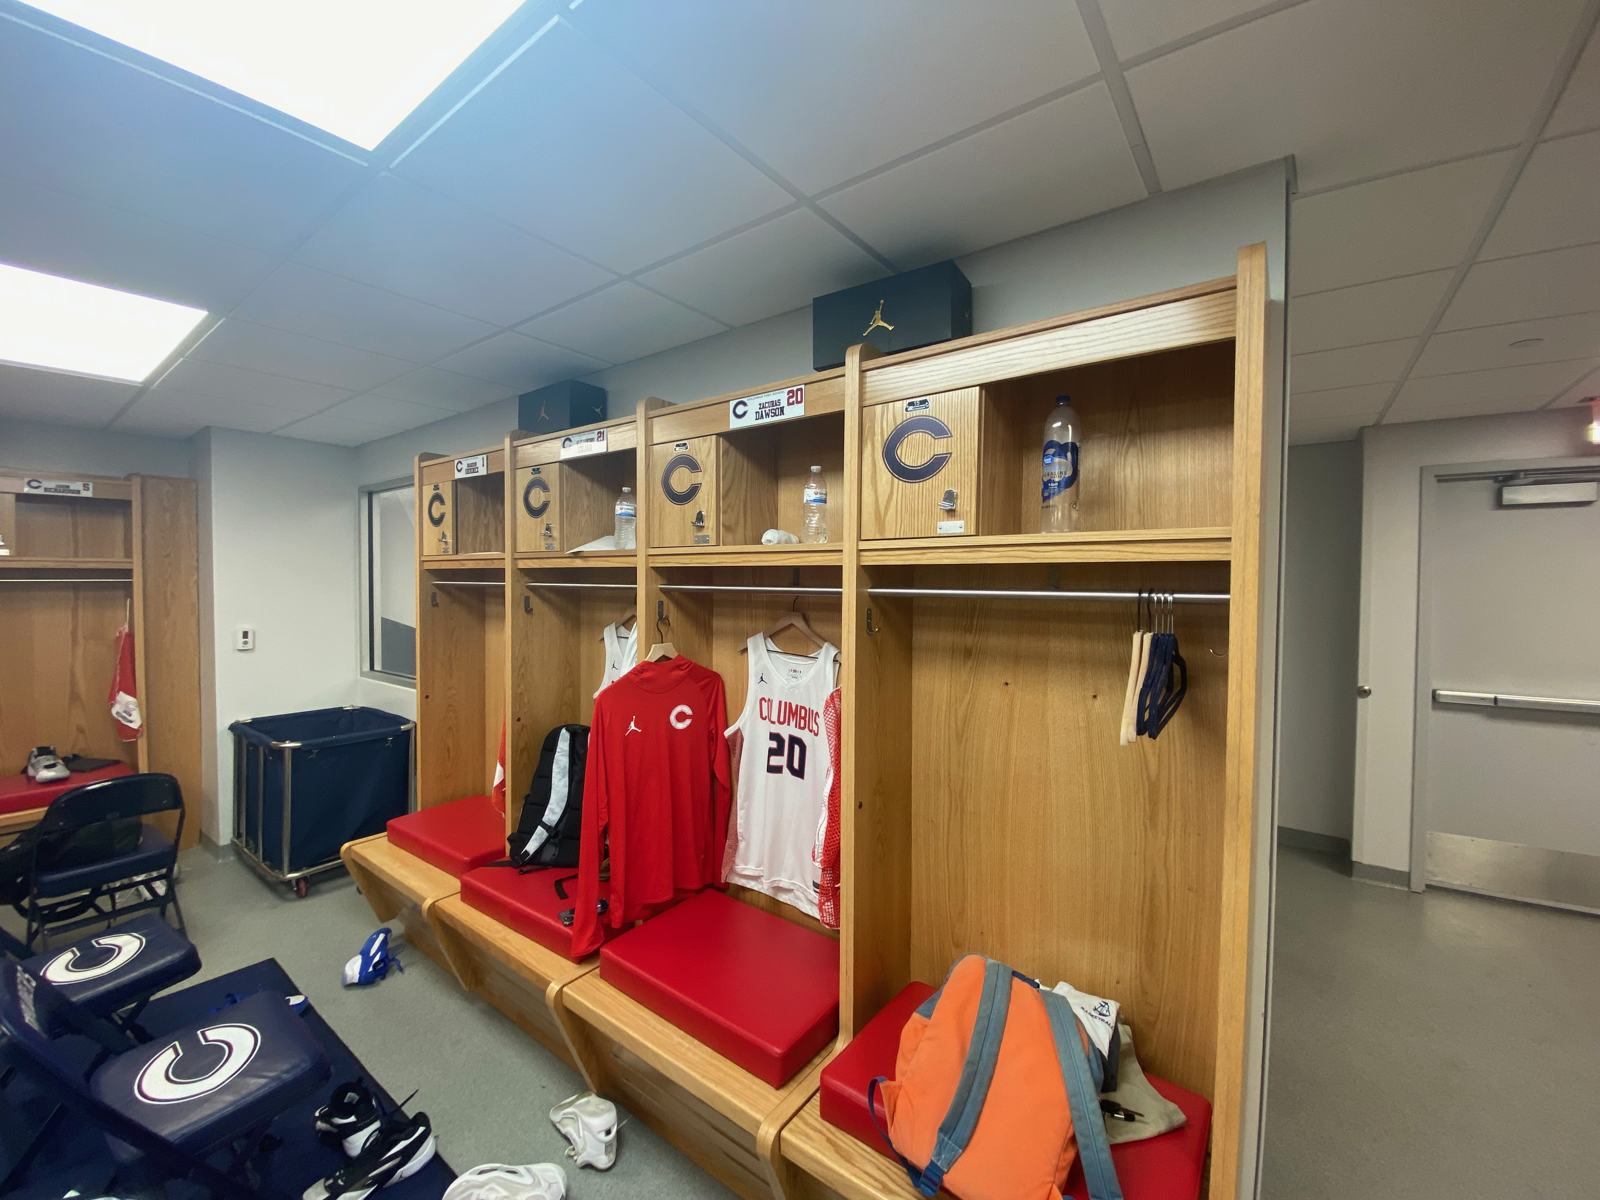
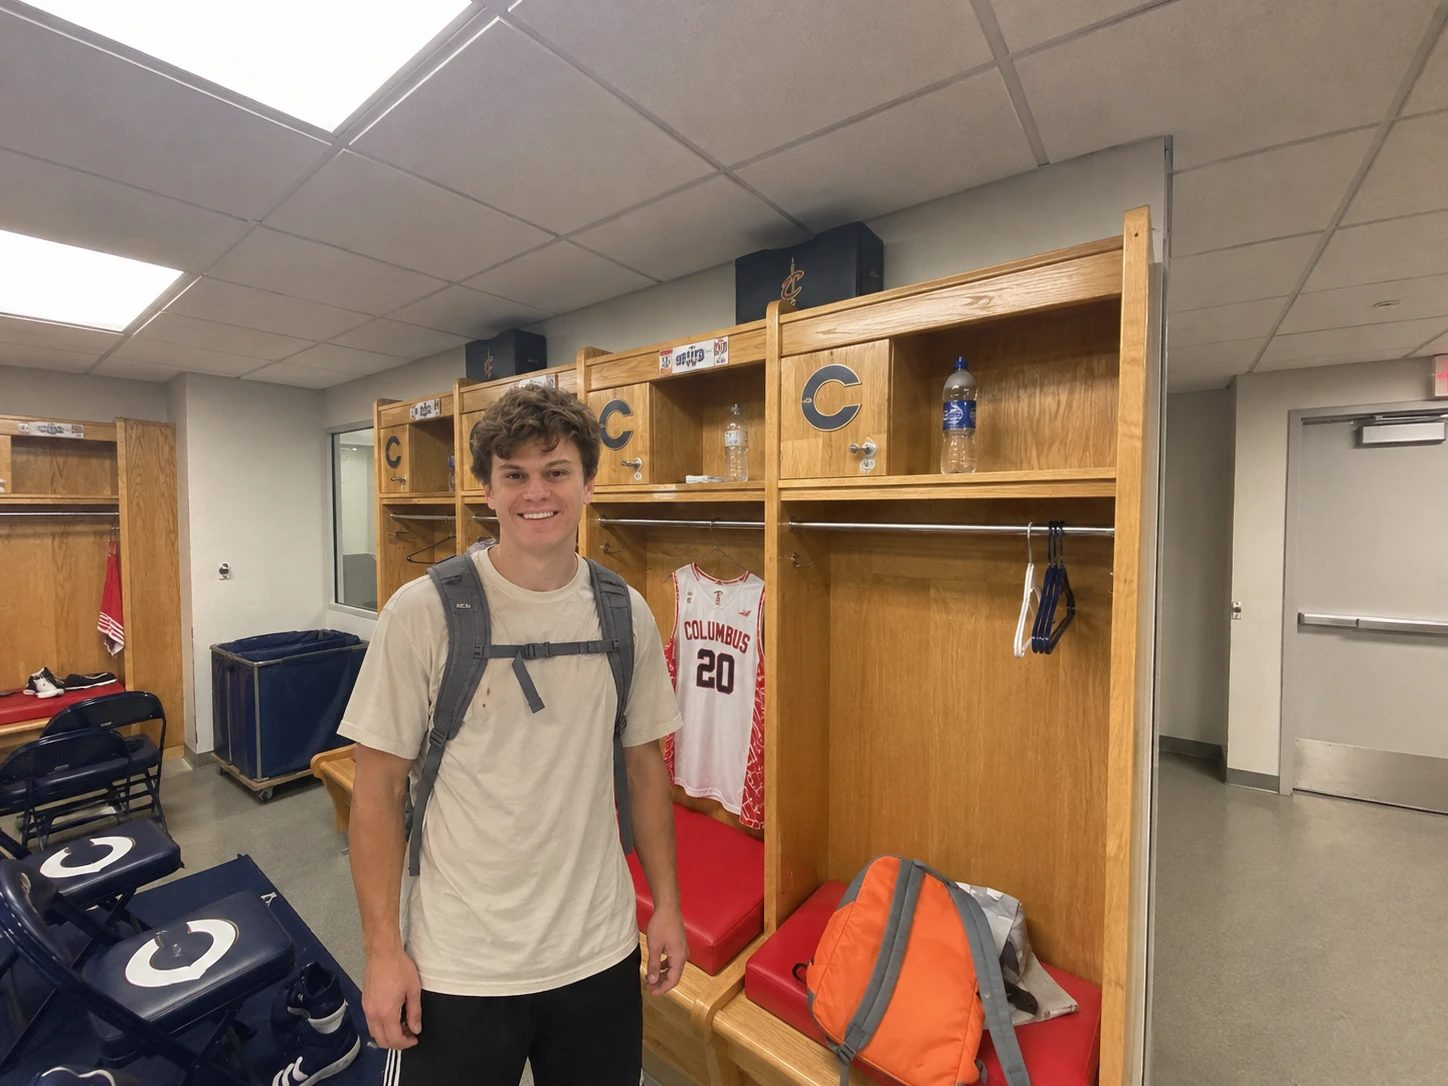
Nueva foto en el vestuario de Columbus HS

diff --git a/index.html b/index.html
@@ -611,7 +611,7 @@ footer{padding-bottom:calc(90px + env(safe-area-inset-bottom,0px))}
         <div class="stabs" role="tablist" aria-label="Etapas"><button type="button" role="tab" class="stab on" id="tab-c1" aria-controls="c1" aria-selected="true" data-i="0"><b>2020</b><span><span class="es">Granada</span><span class="en">Granada</span></span><i aria-hidden="true"></i></button><button type="button" role="tab" class="stab" id="tab-c2" aria-controls="c2" aria-selected="false" data-i="1"><b>2022</b><span><span class="es">Praga</span><span class="en">Prague</span></span><i aria-hidden="true"></i></button><button type="button" role="tab" class="stab" id="tab-c3" aria-controls="c3" aria-selected="false" data-i="2"><b>2023</b><span><span class="es">Miami</span><span class="en">Miami</span></span><i aria-hidden="true"></i></button><button type="button" role="tab" class="stab" id="tab-c4" aria-controls="c4" aria-selected="false" data-i="3"><b>2024</b><span><span class="es">Vuelta</span><span class="en">Back home</span></span><i aria-hidden="true"></i></button><button type="button" role="tab" class="stab" id="tab-c5" aria-controls="c5" aria-selected="false" data-i="4"><b>2025</b><span><span class="es">Doctorado</span><span class="en">PhD</span></span><i aria-hidden="true"></i></button></div>
         <div class="sstrip" data-i="0"><figure class="ph"><img style="object-position:68% 46%" src="img/game-2020.jpg" alt="Partido de baloncesto en Granada en noviembre de 2020" loading="lazy"><figcaption>Granada · 2020</figcaption></figure><figure class="ph"><img style="object-position:28% 32%" src="img/coaching.jpg" alt="Iago corrigiendo a un jugador en un entrenamiento" loading="lazy"><figcaption><span class="es">Entrenando</span><span class="en">Coaching</span></figcaption></figure><figure class="ph"><img style="object-position:50% 28%" src="img/holdat.jpg" alt="Iago con jugadores en el campus Holdat Basketball" loading="lazy"><figcaption>Holdat Basketball</figcaption></figure><figure class="ph"><img style="object-position:50% 45%" src="img/tremp-tecnic.jpg" alt="Dos técnicos sentados de espaldas viendo un entrenamiento en un pabellón" loading="lazy"><figcaption><span class="es">Campus · Tremp</span><span class="en">Camp · Tremp</span></figcaption></figure></div>
         <div class="sstrip" data-i="1" hidden><figure class="ph"><img style="object-position:45% 50%" src="img/prague-talk.jpg" alt="Iago presentando en el atril durante Scientia Movens en Praga" loading="lazy"><figcaption>Scientia Movens</figcaption></figure><figure class="ph"><img style="object-position:58% 88%" src="img/prague-faculty.jpg" alt="Iago frente a la Facultad de Educación Física y Deporte de la Universidad Carolina" loading="lazy"><figcaption><span class="es">Universidad Carolina</span><span class="en">Charles University</span></figcaption></figure><figure class="ph"><img style="object-position:31% 16%" src="img/bergen.jpg" alt="Iago con el programa de la conferencia RESUPERES en Bergen" loading="lazy"><figcaption>Bergen · RESUPERES</figcaption></figure></div>
-        <div class="sstrip" data-i="2" hidden><figure class="ph"><img style="object-position:50% 50%" src="img/miami-locker.jpg" alt="Vestuario del Christopher Columbus High School" loading="lazy"><figcaption>Columbus HS</figcaption></figure><figure class="ph"><img style="object-position:56% 59%" src="img/miami-eval.jpg" alt="Evaluación de movilidad de hombro en Miami" loading="lazy"><figcaption><span class="es">Evaluación</span><span class="en">Assessment</span></figcaption></figure><figure class="ph"><img style="object-position:10% 50%" src="img/covap-team.jpg" alt="Grupo de jugadoras y monitores del Campus COVAP" loading="lazy"><figcaption>Campus COVAP · 2023</figcaption></figure><figure class="ph"><img style="object-position:50% 50%" src="img/covap-court.jpg" alt="Jugadores del Campus COVAP haciendo un ejercicio de bote en pista" loading="lazy"><figcaption>Campus COVAP · 2023</figcaption></figure></div>
+        <div class="sstrip" data-i="2" hidden><figure class="ph"><img style="object-position:37% 40%" src="img/miami-locker.jpg" alt="Iago en el vestuario del Christopher Columbus High School" loading="lazy"><figcaption>Columbus HS</figcaption></figure><figure class="ph"><img style="object-position:56% 59%" src="img/miami-eval.jpg" alt="Evaluación de movilidad de hombro en Miami" loading="lazy"><figcaption><span class="es">Evaluación</span><span class="en">Assessment</span></figcaption></figure><figure class="ph"><img style="object-position:10% 50%" src="img/covap-team.jpg" alt="Grupo de jugadoras y monitores del Campus COVAP" loading="lazy"><figcaption>Campus COVAP · 2023</figcaption></figure><figure class="ph"><img style="object-position:50% 50%" src="img/covap-court.jpg" alt="Jugadores del Campus COVAP haciendo un ejercicio de bote en pista" loading="lazy"><figcaption>Campus COVAP · 2023</figcaption></figure></div>
         <div class="sstrip" data-i="3" hidden><figure class="ph"><video src="vid/cmj.mp4" style="object-position:50% 30%" muted loop playsinline autoplay preload="metadata" aria-label="Jugadora preparada para un salto con contramovimiento"></video><figcaption>CMJ · <span class="es">control neuromuscular</span><span class="en">neuromuscular monitoring</span></figcaption></figure><figure class="ph"><img style="object-position:24% 33%" src="img/gas-lab.jpg" alt="Prueba de esfuerzo en cinta con análisis de gases" loading="lazy"><figcaption>HeartyBrain · PROFITH</figcaption></figure><figure class="ph"><img style="object-position:34% 12%" src="img/lab-me1.jpg" alt="Iago preparando material en el laboratorio junto a un participante" loading="lazy"><figcaption><span class="es">Laboratorio</span><span class="en">Lab</span> · 2025</figcaption></figure><figure class="ph"><img style="object-position:52% 36%" src="img/gmb-tenerife.jpg" alt="Jugadoras de Granada más Baloncesto con Iago en Tenerife" loading="lazy"><figcaption><span class="es">Con el equipo</span><span class="en">With the team</span> · Tenerife 2025</figcaption></figure></div>
         <div class="sstrip" data-i="4" hidden><figure class="ph"><img style="object-position:28% 40%" src="img/hero-research.jpg" alt="Iago presentando un estudio en la Universidad de Almería" loading="lazy"><figcaption>Almería · 2025</figcaption></figure><figure class="ph"><img style="object-position:28% 36%" src="img/team-gmb.jpg" alt="Plantilla de Granada más Baloncesto con el cuerpo técnico" loading="lazy"><figcaption>GMASB · 2026</figcaption></figure><figure class="ph"><img style="object-position:50% 55%" src="img/hawkin-asym.jpg" alt="Plataformas de fuerza Hawkin junto al cartel del proyecto ASYM" loading="lazy"><figcaption>ASYM · Hawkin</figcaption></figure><figure class="ph"><img style="object-position:55% 40%" src="img/sanfernando.jpg" alt="Iago con el cuerpo técnico y una jugadora en San Fernando" loading="lazy"><figcaption>San Fernando · 2026</figcaption></figure></div>
       </div>
@@ -689,7 +689,7 @@ footer{padding-bottom:calc(90px + env(safe-area-inset-bottom,0px))}
       <figure class="rcard" style="aspect-ratio:360/640"><video data-src="tv/plyo-chair.mp4" poster="tv/poster/plyo-chair.jpg" muted loop playsinline preload="none" aria-label="Pliometría"></video><span class="rplay" aria-hidden="true">▶</span><figcaption><span class="es">Pliometría</span><span class="en">Plyometrics</span></figcaption></figure>
       <figure class="rcard" style="aspect-ratio:1200/1600"><img src="img/lab-me2.jpg" alt="Laboratorio · 2025" loading="lazy"><figcaption><span class="es">Laboratorio · 2025</span><span class="en">Lab · 2025</span></figcaption></figure>
       <figure class="rcard" style="aspect-ratio:640/360"><video data-src="tv/court-drill.mp4" poster="tv/poster/court-drill.jpg" muted loop playsinline preload="none" aria-label="Físico integrado con balón"></video><span class="rplay" aria-hidden="true">▶</span><figcaption><span class="es">Físico integrado con balón</span><span class="en">Conditioning with the ball</span></figcaption></figure>
-      <figure class="rcard" style="aspect-ratio:1600/1200"><img src="img/miami-locker.jpg" alt="Columbus HS · Miami" loading="lazy"><figcaption><span class="es">Columbus HS · Miami</span><span class="en">Columbus HS · Miami</span></figcaption></figure>
+      <figure class="rcard" style="aspect-ratio:1600/1200"><img src="img/miami-locker.jpg" alt="Iago en el vestuario del Columbus HS, Miami" loading="lazy"><figcaption><span class="es">Columbus HS · Miami</span><span class="en">Columbus HS · Miami</span></figcaption></figure>
       <figure class="rcard" style="aspect-ratio:1500/1000"><img src="img/covap-drill.jpg" alt="Ejercicio en pista del Campus COVAP" loading="lazy"><figcaption><span class="es">Campus COVAP · 2023</span><span class="en">COVAP camp · 2023</span></figcaption></figure>
       <figure class="rcard" style="aspect-ratio:360/640"><video data-src="tv/hearts.mp4" poster="tv/poster/hearts.jpg" muted loop playsinline preload="none" aria-label="Ambiente de equipo"></video><span class="rplay" aria-hidden="true">▶</span><figcaption><span class="es">Ambiente de equipo</span><span class="en">Team spirit</span></figcaption></figure>
       <figure class="rcard" style="aspect-ratio:1200/1600"><img src="img/sanfernando.jpg" alt="San Fernando · 2026" loading="lazy"><figcaption><span class="es">San Fernando · 2026</span><span class="en">San Fernando · 2026</span></figcaption></figure>
